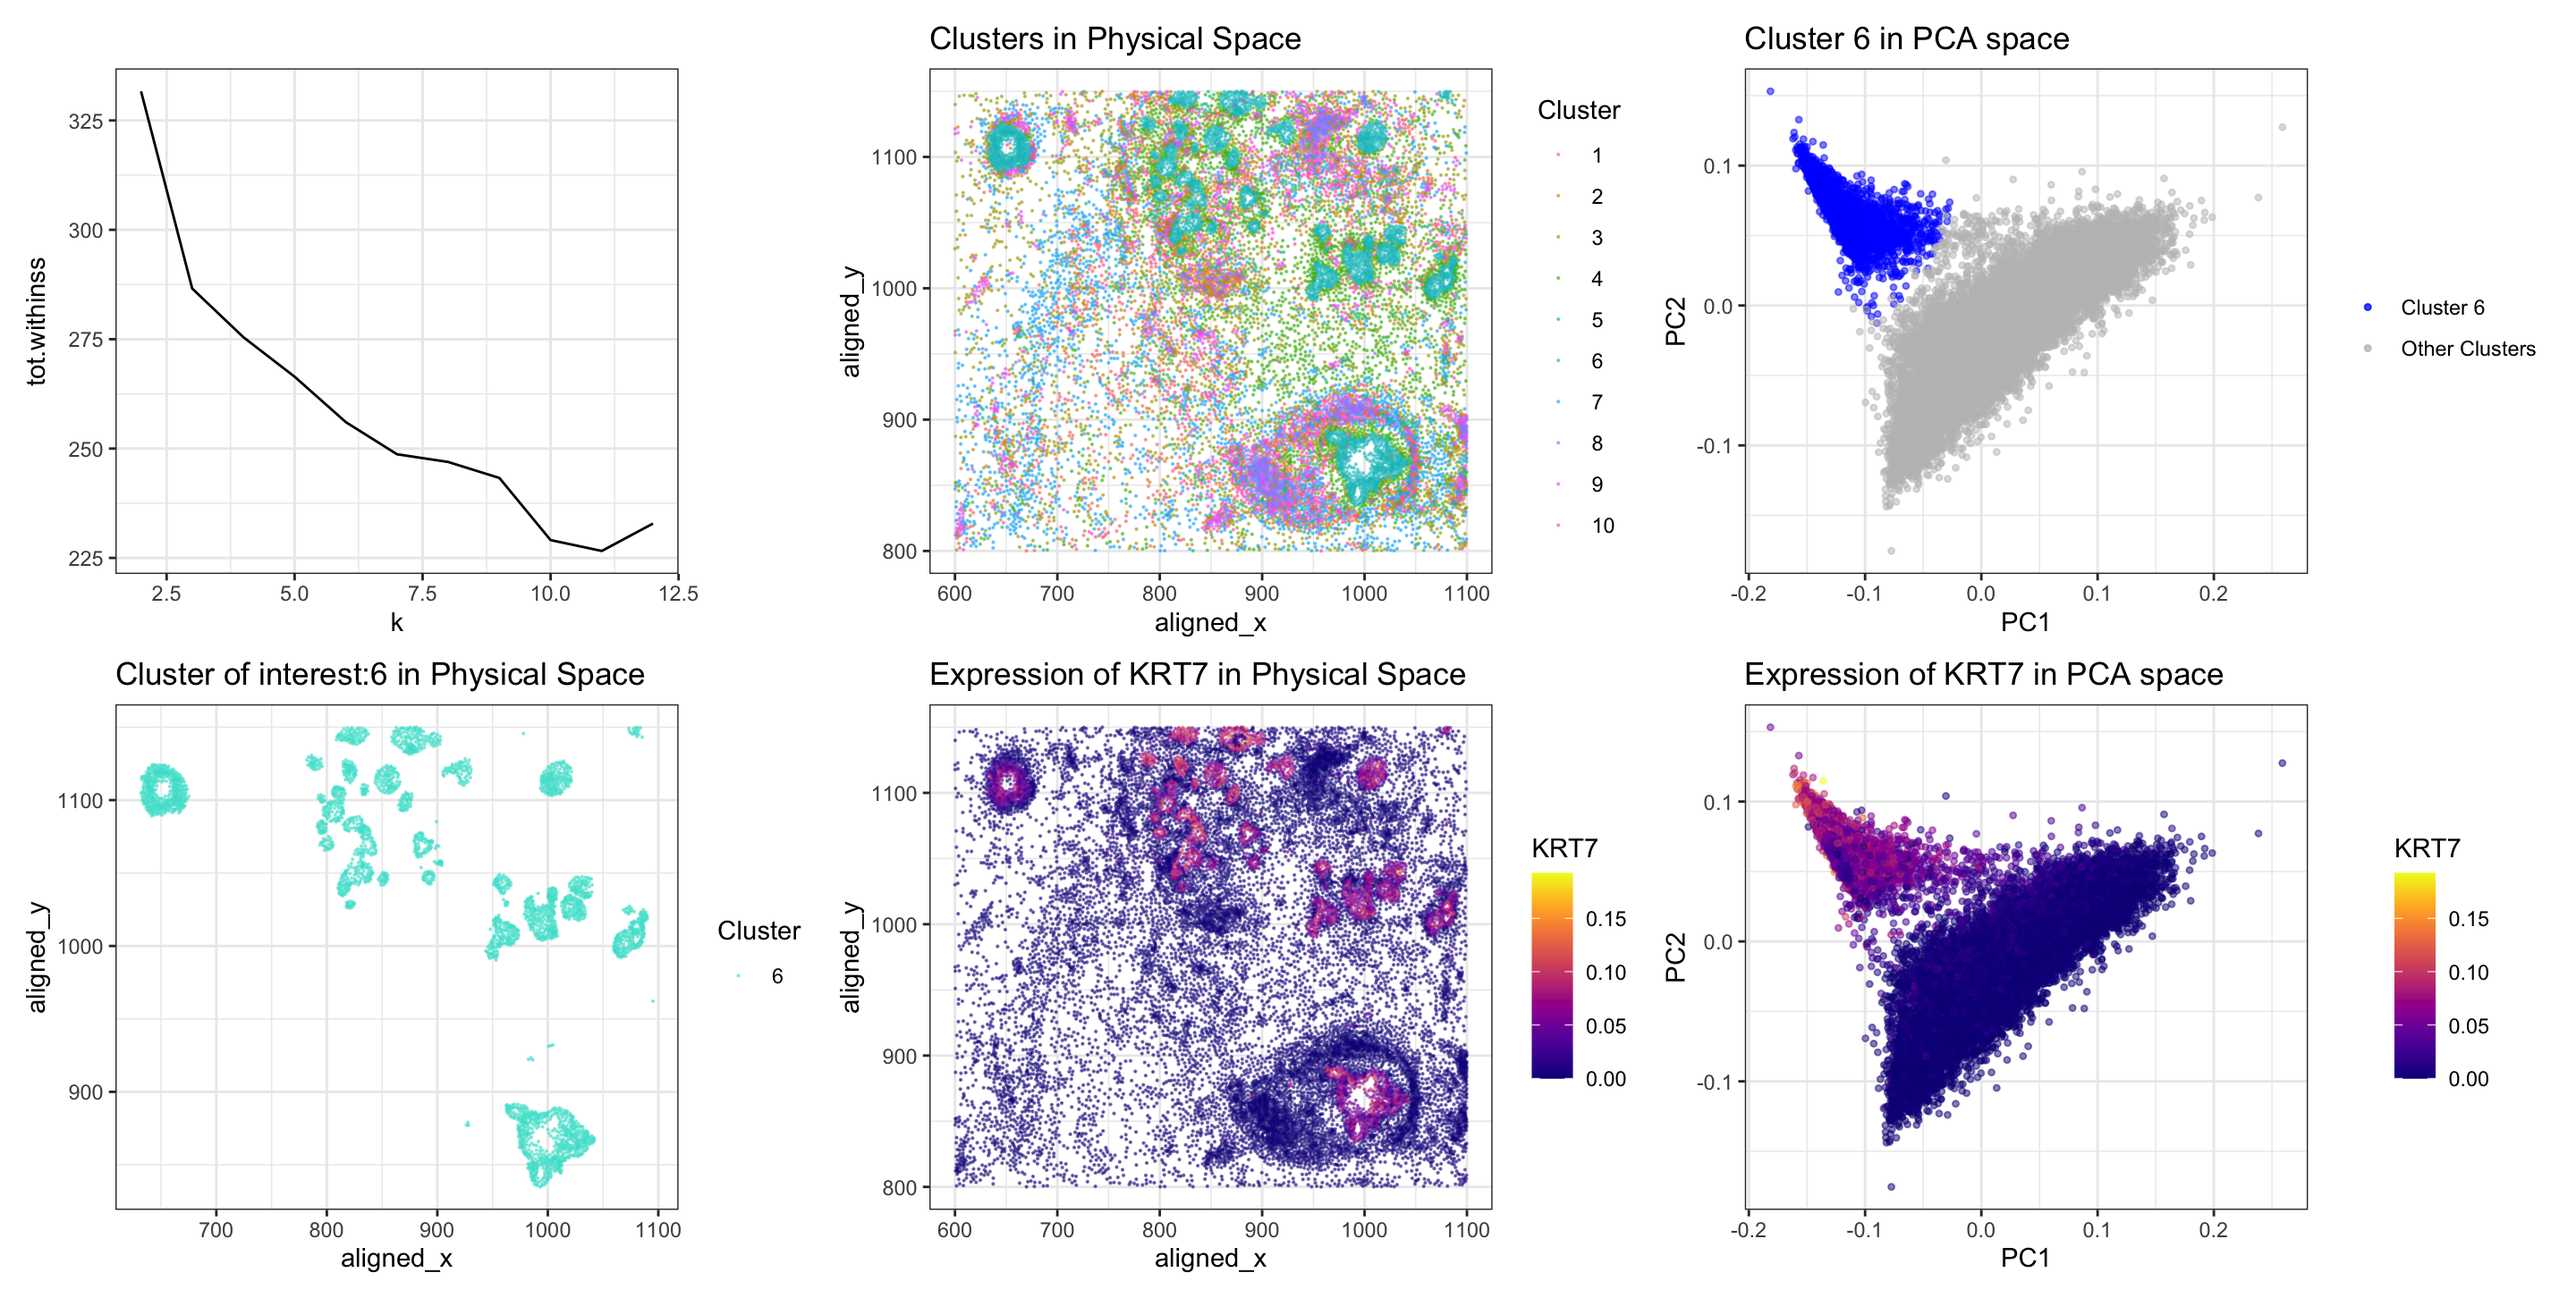
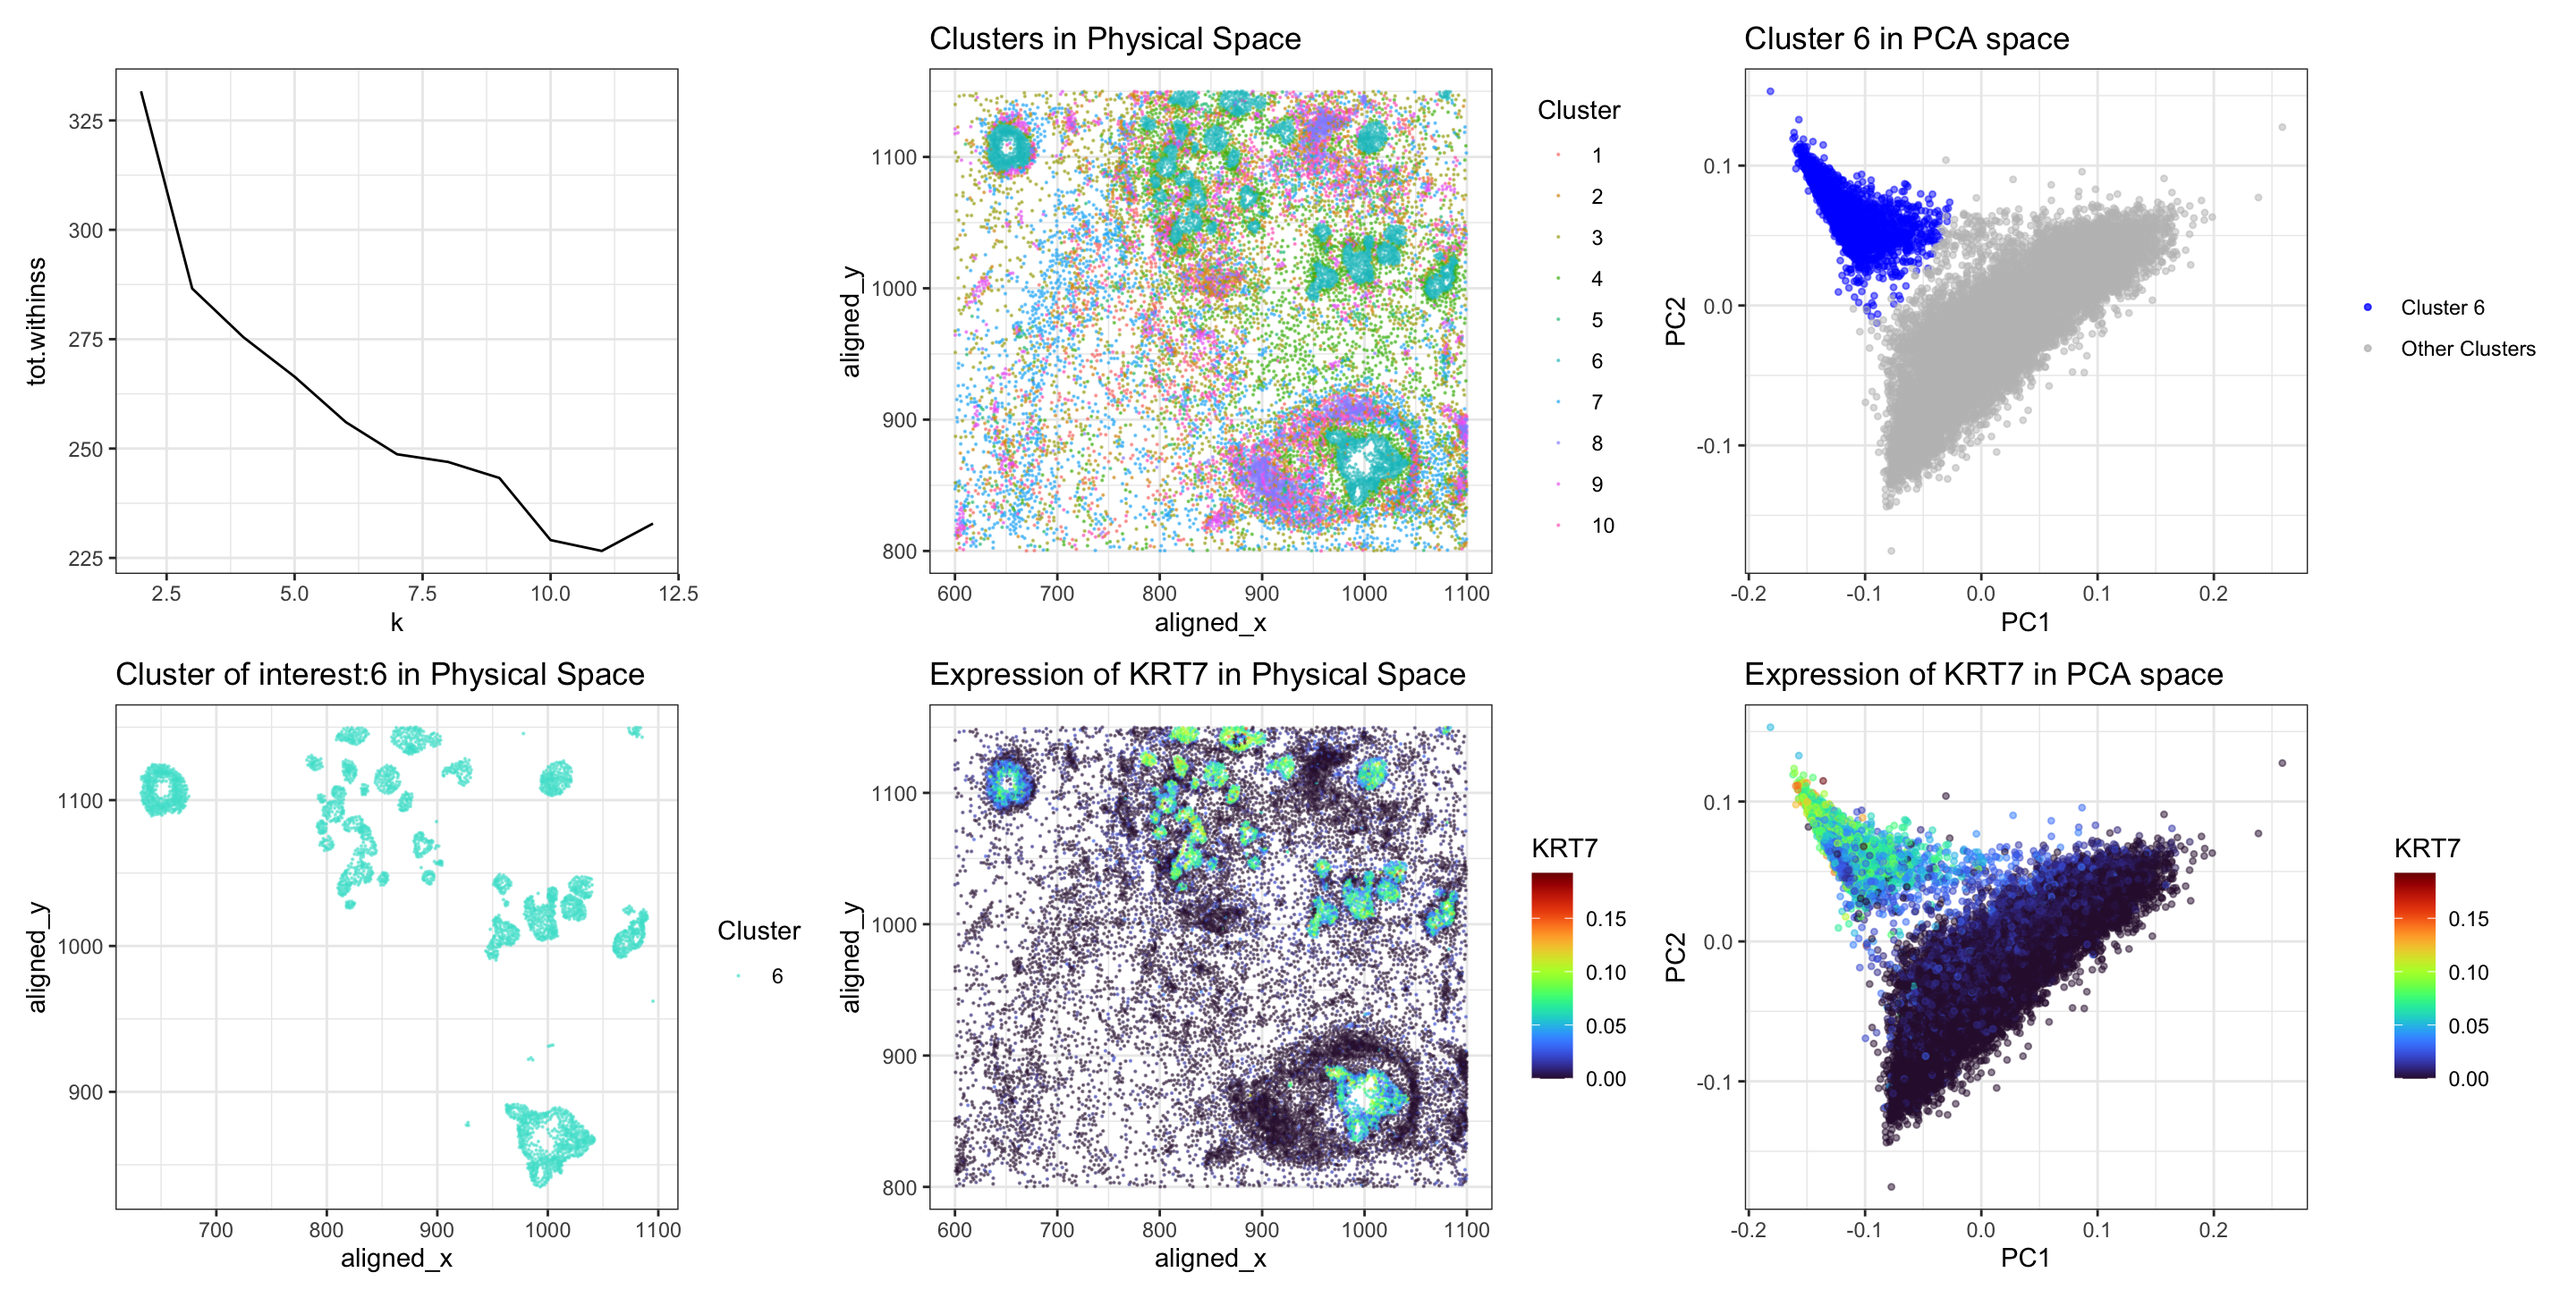
Update

Changed region(s): [[0.375, 0.5579, 0.625, 0.9298], [0.6875, 0.5888, 0.875, 0.8678], [0.9062, 0.6818, 0.9688, 0.8368]]

diff --git a/_posts/2024-02-17-nsoley1.md b/_posts/2024-02-17-nsoley1.md
@@ -19,7 +19,7 @@ Upon transitioning from the Eevee to the Pikachu single-cell resolution dataset.
 
 Conducting a Wilcox-test revealed 'KRT7' as the top upregulated gene within the selected cluster, exhibiting a highly significant p-value (pvalue 1.5182e-99). This finding was different from the previous analysis, which identified DSP as the predominant upregulated gene, underscoring the nuanced transcriptional heterogeneity inherent in single-cell resolution datasets.
 
-Then, I visualized the spatial landscape of KRT7 expression within the tissue. In physical space (pannel 5), cells within the selected cluster exhibited intense KRT7 expression, depicted by vibrant pink-yellow coloring. Similarly, PCA-based visualization (pannel 6) reaffirmed the clustering of cells (pink-yellow) with elevated KRT7 expression corresponding to the location of cluster 6 in PCs, suggesting a distinct transcriptional profile associated with this cell-type.
+Then, I visualized the spatial landscape of KRT7 expression within the tissue. In physical space (pannel 5), cells within the selected cluster exhibited intense KRT7 expression, depicted by vibrant turquoise-yellow coloring. Similarly, PCA-based visualization (pannel 6) reaffirmed the clustering of cells (turquoise-yellow) with elevated KRT7 expression corresponding to the location of cluster 6 in PCs, suggesting a distinct transcriptional profile associated with this cell-type.
 
 Integration of the above information with the known literature indicates that the identified cluster likely consists of epithelial cells characterized by high expression of the KRT7 gene. The known biology of KRT7, predominantly associated with epithelial cells in breast (glandular cells), and other tissues, offers a compelling framework for interpreting the observed expression pattern [1][2]. While the marker gene may differ from my previous analyses, the identification of epithelial cells remains consistent.
 
@@ -89,13 +89,13 @@ significant_genes_df <- data.frame(Gene = significant_genes, p_value = results[s
 gene_of_interest <- 'KRT7'
 p4 <- ggplot(data.frame(pos, gene = gexpnorm[, gene_of_interest])) +
   geom_point(aes(x = aligned_x, y = aligned_y, col = gene),  size=.1,alpha=0.5) +
-  scale_color_viridis(option = 'plasma')+
+  scale_color_viridis(option = 'H')+
   theme_bw() +
   labs(title = paste("Expression of", gene_of_interest, "in Physical Space"))+
   labs(color=gene_of_interest)
 p5 <- ggplot(data.frame(pcs$x, gene = gexpnorm[, gene_of_interest])) +
   geom_point(aes(x = PC1, y = PC2, col = gene),  size=.9,alpha=0.5) +
-  scale_color_viridis(option = 'plasma')+
+  scale_color_viridis(option = 'H')+
   theme_bw() +
   labs(title = paste("Expression of", gene_of_interest, "in PCA space"))+
   labs(color=gene_of_interest)
